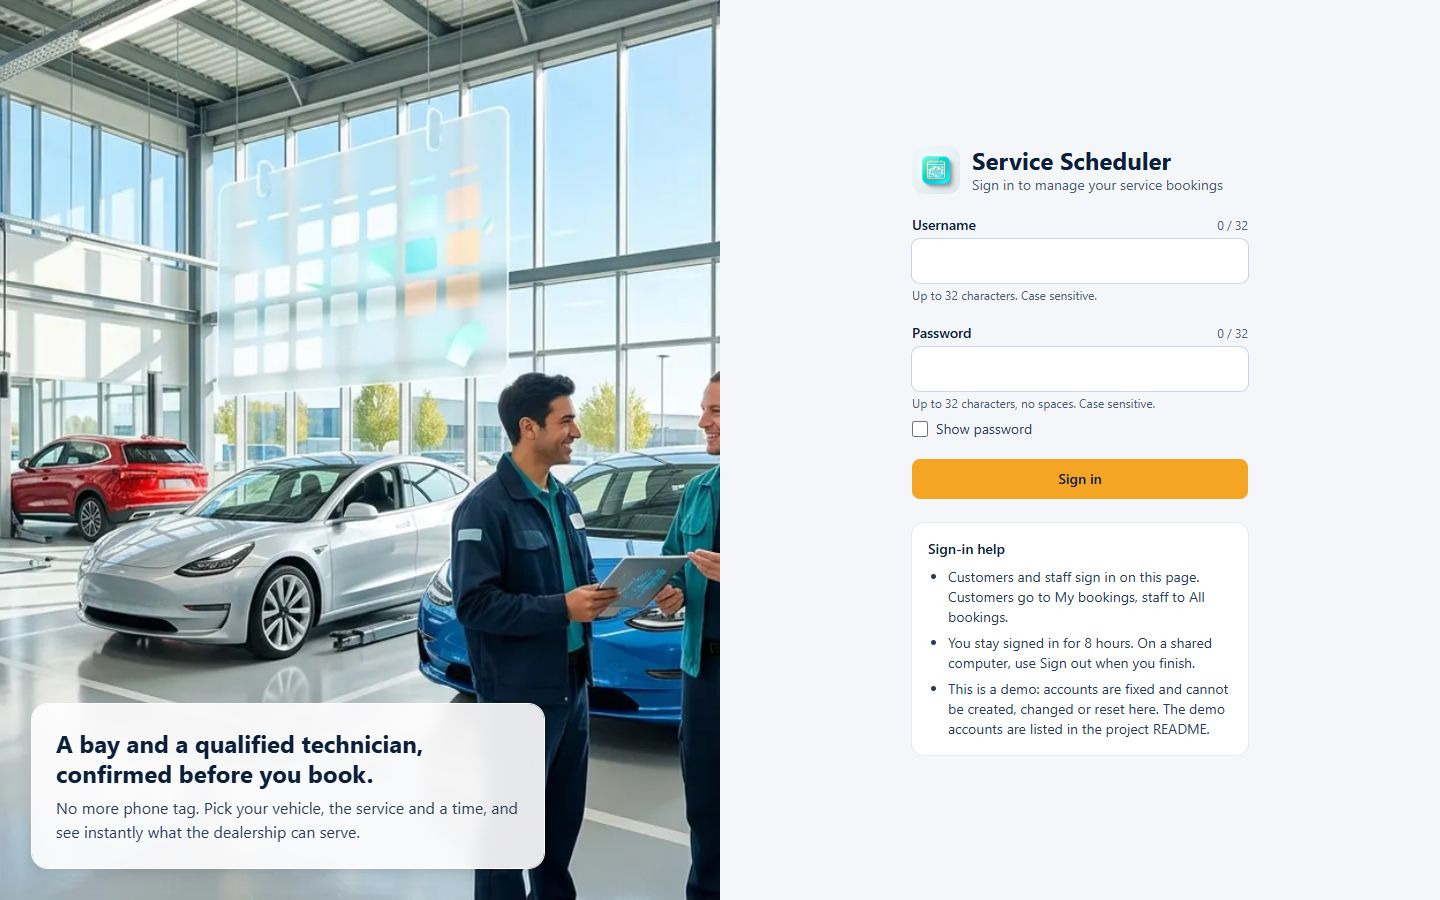
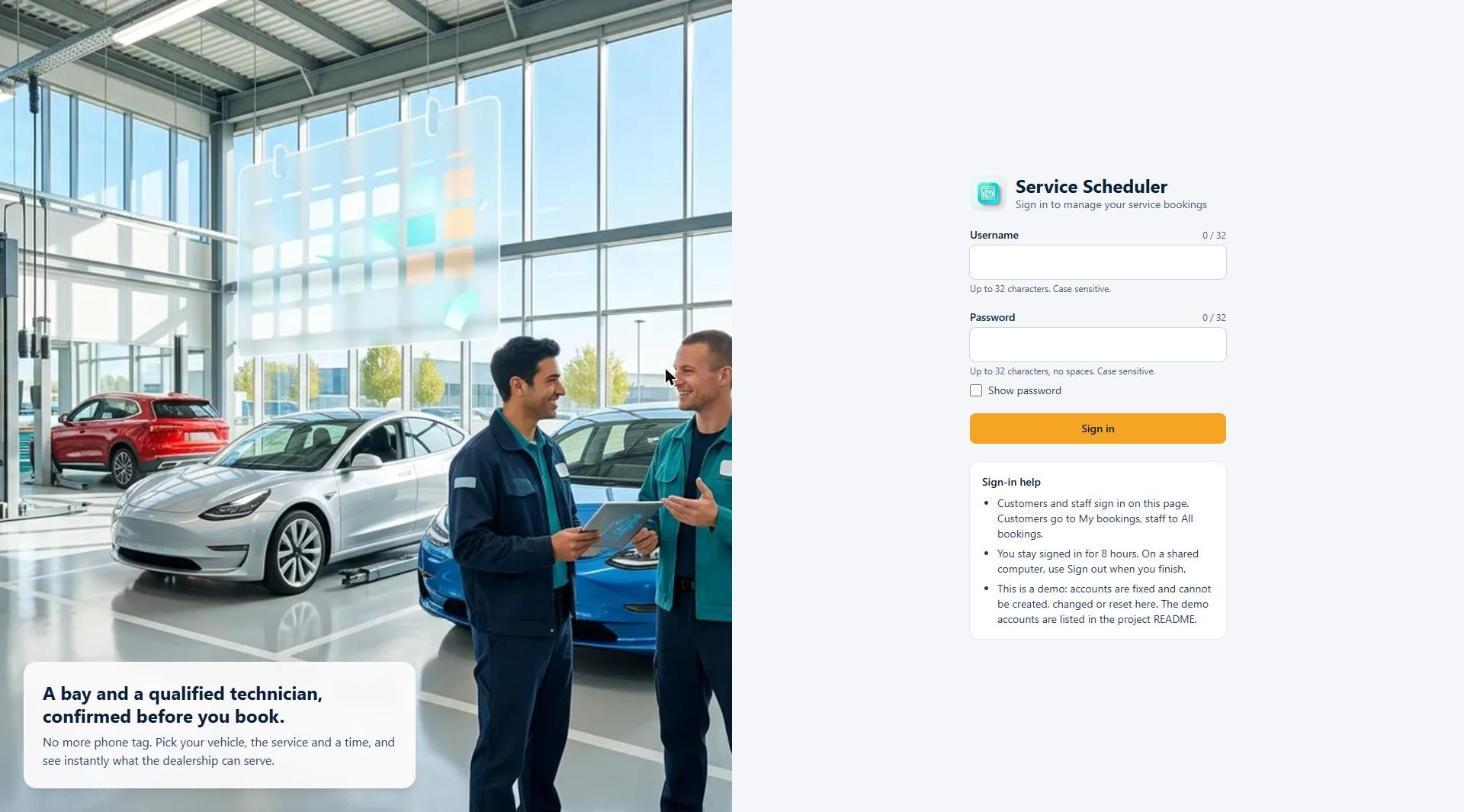
Frontend builds are always production builds; remove the unused bay image; retake all screenshots from the current build

diff --git a/frontend/vite.config.ts b/frontend/vite.config.ts
@@ -3,12 +3,16 @@ import react from '@vitejs/plugin-react';
 import { defineConfig } from 'vite';
 
 // In development the page and the API share one origin through this proxy, exactly as CloudFront does in AWS.
-export default defineConfig({
-  plugins: [react(), tailwindcss()],
-  server: {
-    port: 5173,
-    proxy: { '/api': process.env.API_URL ?? 'http://localhost:3000' },
-  },
-  preview: { port: 4173, proxy: { '/api': process.env.API_URL ?? 'http://localhost:3000' } },
-  build: { sourcemap: false },
+export default defineConfig(({ command }) => {
+  // A build is always a production build, even when the shell has NODE_ENV=development set (some machines do).
+  if (command === 'build') process.env.NODE_ENV = 'production';
+  return {
+    plugins: [react(), tailwindcss()],
+    server: {
+      port: 5173,
+      proxy: { '/api': process.env.API_URL ?? 'http://localhost:3000' },
+    },
+    preview: { port: 4173, proxy: { '/api': process.env.API_URL ?? 'http://localhost:3000' } },
+    build: { sourcemap: false },
+  };
 });

diff --git a/docs/test-evidence/README.md b/docs/test-evidence/README.md
@@ -1,25 +1,20 @@
 # Test evidence
 
-Screenshots from Claude in Chrome (Alice driving Chrome) on the app, with what each shows. Commands and the latest results are in [../TESTING.md](../TESTING.md); the checklist is [../MANUAL_TEST_CASES.md](../MANUAL_TEST_CASES.md).
+Screenshots of the current build (production build, local API on DynamoDB Local), taken through Claude in Chrome. Phone shots show the app in a 390 px wide frame. Commands and the latest results are in [../TESTING.md](../TESTING.md); the checklist is [../MANUAL_TEST_CASES.md](../MANUAL_TEST_CASES.md).
 
 | Screenshot | Shows |
 |---|---|
-| `01-login.jpg` | Sign-in page |
-| `02-customer-dashboard.jpg` | Customer dashboard |
-| `03-booking-times.jpg` | Booking page with free and taken times |
-| `04-booking-confirmed.jpg` | Confirmation with reference, bay and technician |
-| `05-conflict-with-alternatives.jpg` | A second person refused for the same slot, nearest times offered |
-| `06-booking-page-vehicle-busy.jpg` | Times greyed out for a vehicle that is booked elsewhere |
-| `07-staff-all-bookings.jpg` | Staff overview |
-| `08` to `11` `-mobile-*.jpg` | Phone width: sign-in, dashboard, booking, staff |
-| `12-login-help.jpg` | Sign-in page with the rules and the Sign-in help panel |
-| `13-login-space-warning.jpg` | Live warning when a password contains a space; Show password ticked |
-| `14-mobile-login-help.jpg` | Sign-in page at phone width, with the portrait banner |
-| `15-tablet-login.jpg` | Sign-in page at tablet width |
-| `16-phone-header-dashboard.jpg` | Phone header: logo, picture and Sign out on one line; menu as equal buttons below |
-| `17-phone-staff-filters.jpg` | Staff filters as a grid on a phone |
-| `18-phone-320-header.jpg` | The header at the narrowest size, 320 px |
-| `19-phone-sticky-confirm-bar.jpg` | Phone booking page with the summary and Confirm pinned to the bottom |
-| `20-phone-conflict-in-bar.jpg` | Phone: the conflict message and four nearest times inside the pinned bar |
+| `01-login.jpg` | Sign-in page: the username and password rules once, under their boxes, and the Sign-in help |
+| `02-login-password-rules.jpg` | A password containing a space: live warning, Show password ticked |
+| `03-customer-dashboard.jpg` | Customer dashboard |
+| `04-booking-times.jpg` | Booking page: choices made, free times, the booking summary |
+| `05-conflict-with-alternatives.jpg` | Another person took the time: message and the four nearest free times |
+| `06-booking-confirmed.jpg` | Confirmation with reference, bay and technician |
+| `07-staff-all-bookings.jpg` | Staff overview with totals, dealership tiles and filters |
+| `08-phone-login.jpg` | Sign-in on a phone, with the portrait banner |
+| `09-phone-dashboard.jpg` | Phone dashboard and header |
+| `10-phone-booking-confirm-bar.jpg` | Phone booking page: summary and Confirm pinned to the bottom |
+| `11-phone-conflict-in-bar.jpg` | Phone: the conflict message and nearest times inside the pinned bar |
+| `12-phone-staff.jpg` | Phone staff filters and list |
 
 Signing in on the deployed site is done by a person; the deployed site is verified by the Python suites and the smoke test.

diff --git a/README.md b/README.md
@@ -173,7 +173,7 @@ alice/
 - **Cloud operations.** She uses the AWS CLI with a dedicated profile to create and update infrastructure, deploy the frontend and backend, seed data and read logs.
 - **UI testing through a real browser.** She drives Chrome through the Claude in Chrome extension: signing in as each role, booking, cancelling, reading the rendered page and capturing screenshots as evidence, including the phone layout and a second customer taking the same slot.
 - **API and rare-case testing.** She writes Python scripts that call the API directly, including two customers booking the same slot at the same moment, the same vehicle double-submitted, and cancel-then-rebook. She designs boundary-value and pairwise (all-pairs) tests and checks that they fail when the code is deliberately broken.
-- **Visuals.** She generates every image and thumbnail (38: portraits, dealerships, cars, service categories, logo, desktop and mobile hero, empty state) with Google's "nano banana" Gemini image models through her image skill, using one shared bright, modern style prompt.
+- **Visuals.** She generates every image and thumbnail (37: portraits, dealerships, cars, service categories, logo, desktop and mobile hero, empty state) with Google's "nano banana" Gemini image models through her image skill, using one shared bright, modern style prompt.
 
 ## License
 

diff --git a/docs/TESTING.md b/docs/TESTING.md
@@ -10,7 +10,7 @@ How the project is tested, how to run every suite, the latest results, and how t
 | Frontend state | **Vitest** with React Testing Library (jsdom), API mocked | Booking page resets, staff filters, sign-in and sign-out, times shown in the dealership time zone |
 | API black-box and concurrency | **Python scripts** (standard library only) in `scripts/` | Roles, validation, boundaries, pairwise, concurrency, every text input, post-deploy smoke test. Run against local or the live site |
 | UI | The manual sheet, run manually or through **Claude in Chrome** (driven by Alice) | Real browser, real clicks; screenshots in `docs/test-evidence/` |
-| Images | Google "nano banana" (Gemini image models) through Alice's image skill | 38 WebP files; one shared style prompt keeps the set consistent |
+| Images | Google "nano banana" (Gemini image models) through Alice's image skill | 37 WebP files; one shared style prompt keeps the set consistent |
 | Manual API calls | `curl` or PowerShell `Invoke-RestMethod` | Examples in section 4 |
 
 ## 2. What runs where

diff --git a/docs/SYSTEM_DESIGN.md b/docs/SYSTEM_DESIGN.md
@@ -139,7 +139,7 @@ This gate suits a demo; a product would use a managed identity provider (for exa
 | Infrastructure | AWS CDK (TypeScript) | One command deploys and the stack is readable as code |
 | Observability | JSON logs to CloudWatch, built-in AWS metrics, a dashboard and four alarms | Enough to see errors, latency and throttling without extra libraries |
 | Tests | Vitest (with DynamoDB Local), Python scripts, Claude in Chrome | See section 10 |
-| Images | Generated with Gemini through Alice's image skill (38 WebP files, about 1.1 MB) | Faces, places and cars instead of text blocks; one shared style prompt keeps them consistent; each record stores an image key, so art can be replaced without code changes |
+| Images | Generated with Gemini through Alice's image skill (37 WebP files, about 1.1 MB) | Faces, places and cars instead of text blocks; one shared style prompt keeps them consistent; each record stores an image key, so art can be replaced without code changes |
 
 ## 8. Frontend behaviour
 
